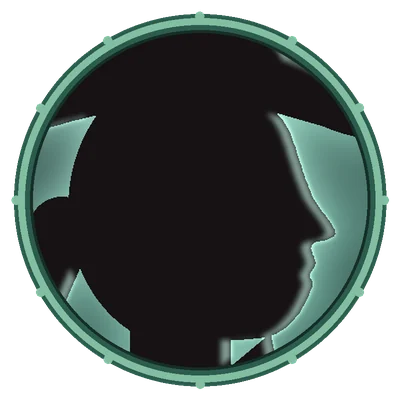
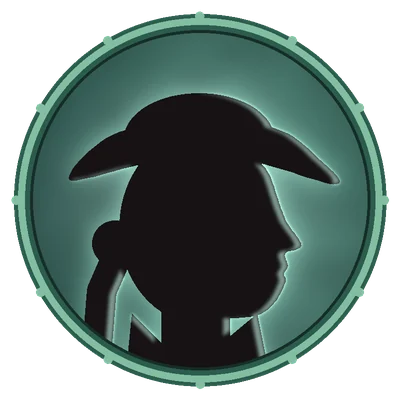
Ashford Roads Act 1: generated maps, portraits, tokens and cover
Seven maps with Foundry scene data (walls, doors, lights, notes, tokens; the Grate Chamber's
moving sun path), 21 framed portraits and round tokens, and the cover. Deterministic Pillow
generators in tools/ (see tools/README.md).

Claude-Session: https://claude.ai/code/session_01GTFAprqijHyD6UUxPvG4xv

Changed region(s): [[0.06, 0.06, 0.93, 0.93]]

diff --git a/possibilities-act1/tools/build_portraits.py b/possibilities-act1/tools/build_portraits.py
@@ -570,13 +570,14 @@ def frame_portrait(img, role, name):
     return out.resize((W // S, H // S), Image.LANCZOS).convert("RGB")
 
 
-TOKEN_CROP = {"rat": (0.5, 0.6, 0.9), "rat_swarm": (0.5, 0.6, 1.0), "old_gnaw": (0.5, 0.6, 1.0), "gloam": (0.5, 0.5, 1.0),
-              "inventor": (0.52, 0.5, 0.62), "binder": (0.52, 0.52, 0.66), "petra": (0.52, 0.5, 0.6), "dov": (0.52, 0.5, 0.6)}
+TOKEN_CROP = {"rat": (0.5, 0.6, 0.96), "rat_swarm": (0.5, 0.56, 1.0), "old_gnaw": (0.5, 0.6, 0.96), "gloam": (0.5, 0.5, 1.0),
+              "inventor": (0.5, 0.46, 0.86), "binder": (0.5, 0.48, 0.86), "petra": (0.5, 0.46, 0.84), "dov": (0.5, 0.46, 0.84),
+              "merchant": (0.5, 0.36, 0.92), "rourke": (0.5, 0.38, 0.92), "noble": (0.5, 0.38, 0.9), "enkrid": (0.5, 0.38, 0.9)}
 
 
 def token(img, role, key):
     fr0, fr1 = ROLE[role]["frame"]
-    cxr, cyr, sc = TOKEN_CROP.get(key, (0.52, 0.44, 0.6))
+    cxr, cyr, sc = TOKEN_CROP.get(key, (0.5, 0.4, 0.88))
     side = int(W * sc)
     cx, cy = int(W * cxr), int(H * cyr)
     box = (cx - side // 2, cy - side // 2, cx + side // 2, cy + side // 2)
@@ -618,10 +619,10 @@ def cover():
             wx, wy = x + int(r.integers(6, max(7, bw // S - 14))) * S, h - 170 * S - bh + int(r.integers(10, max(11, bh // S - 20))) * S
             d.rectangle([wx, wy, wx + 8 * S, wy + 12 * S], fill=(255, 196, 110))
         x += bw
-    for (sx, sw_, sh_) in [(700, 34, 380), (780, 28, 440), (860, 40, 360), (960, 30, 300)]:
+    for (sx, sw_, sh_) in [(860, 34, 440), (930, 28, 380), (1010, 40, 410), (1110, 30, 300), (720, 26, 300)]:
         d.rectangle([sx * S, (600 - sh_) * S, (sx + sw_) * S, h], fill=(20, 18, 20))
         d.ellipse([(sx - 6) * S, (600 - sh_ - 10) * S, (sx + sw_ + 6) * S, (600 - sh_ + 10) * S], fill=(255, 130, 50))
-    for (tx, tr) in [(620, 70), (1040, 90), (1130, 60)]:
+    for (tx, tr) in [(640, 70), (980, 90), (1160, 60)]:
         d.ellipse([(tx - tr) * S, (470 - tr) * S, (tx + tr) * S, (470 + tr) * S], fill=(22, 20, 22))
     d.rectangle([0, 520 * S, w, h], fill=(14, 12, 14))
     for x in range(40, 1200, 160):

diff --git a/possibilities-act1/tools/README.md b/possibilities-act1/tools/README.md
@@ -1,0 +1,35 @@
+# Art tools
+
+Python 3 with Pillow and numpy (no scipy). Every generator uses fixed seeds, so a rebuild gives byte-identical files.
+Fonts are read from `../ravenmoor-manor/assets/fonts/` (IM Fell English, OFL).
+
+```sh
+python3 tools/build_maps.py                  # every map -> assets/maps/<id>.webp + data/scenes/<id>.json
+python3 tools/build_maps.py grate_chamber    # just one
+python3 tools/build_maps.py --debug DIR      # also write overlays (grid, walls, doors, lights, notes, tokens) to DIR
+python3 tools/build_portraits.py             # portraits, tokens and the cover
+python3 tools/build_portraits.py enkrid      # just one (portrait + token); "cover" for the cover only
+```
+
+- `artlib.py`: the painting engine. A map is a grid of cells (1 cell = one 100 px square) holding a floor material or
+  solid rock/brick. Foundry walls are traced from the same cells, so art and walls always agree; doors (`door`,
+  `grille`, `hatch`, `secret`, `open`) cut the wall runs.
+- `build_maps.py`: the seven maps. Never hand-edit `data/scenes/*.json` or the map images; change the layout here.
+- `build_portraits.py`: cut-paper profile silhouettes. Heroes brass on amber, people verdigris on teal, foes rust on red.
+
+## Scene JSON
+
+`{id, name, width, height, gridSize, gridType, background, darkness, walls:[{c:[x0,y0,x1,y1], door}], lights:[{key?, x, y,
+dim, bright, color, alpha, animation?}], notes:[{x, y, page, label}], tokens:[{actor, x, y, hidden?}], sunPath?}`.
+Coordinates are pixels of the background. Light `dim`/`bright` are in scene distance units (5 per square, so 10 = two
+squares). `door`: 0 wall, 1 door, 2 secret door. Note `page` keys are lore place ids or lore scene ids (`ch1_*`).
+
+| Map | Size | Notes |
+|---|---|---|
+| `ashford` | 3000×2000, no grid | City overview; notes for every landmark (the culvert hatch → `undercourses`). |
+| `undercourses` | 40×28 | Hatch landing (A), junction (B), the sellswords' room (C), Old Gnaw's chamber (D), the sump (E), the pump room (F); exit south to the Grate Chamber. Hidden rat/Gnaw tokens. |
+| `grate_chamber` | 20×14 | Cistern, Petra's ledge, four exits (west doorway the party enters by, north drain, east outfall, south overflow). `sunPath`: 8 points; light `key: "sun"` starts at point 0. |
+| `sallows_exchange` | 18×14 | Counting-room, high desk, commissions board, door to the steps (the bonding beat). |
+| `binding_house` | 16×12 | Four binding cradles, the binder's table, vestibule. |
+| `lantern_lee` | 16×12 | Common room, the one room (four bunks), kitchen. |
+| `long_quay` | 24×14 | The quay and the Gilded Tern at her gangway; the harbour is open water (no walls). |
